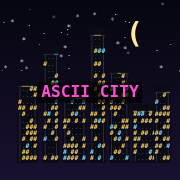
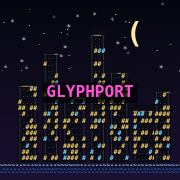
Rename ASCII City to Glyphport
The name you see: the page title and home-screen name, the web app manifest, the
pause menu, the link on the front page, the sleepOS desktop icon, new app icons
(the skyline now stands over the harbour, GLYPHPORT across it), IDEAS.md.

Kept as they were on purpose: ascii-city.html and every other file name, the URL,
the manifest id, the save and settings keys, the audio folder. Changing those
would break links, reinstall the app and lose everyone's save.

Claude-Session: https://claude.ai/code/session_01Gw1JVEBg6Xp9BrCMZ4ZdV2

Changed region(s): [[0.0, 0.8889, 1.0, 0.9722], [0.2222, 0.4722, 0.7778, 0.5556]]

diff --git a/ascii-city.html b/ascii-city.html
@@ -7,14 +7,14 @@
   <meta name="mobile-web-app-capable" content="yes">
   <meta name="apple-mobile-web-app-capable" content="yes">
   <meta name="apple-mobile-web-app-status-bar-style" content="black-translucent">
-  <meta name="apple-mobile-web-app-title" content="ASCII City">
+  <meta name="apple-mobile-web-app-title" content="Glyphport">
   <link rel="apple-touch-icon" sizes="180x180" href="images/ascii-city-180.png">
   <link rel="icon" type="image/png" sizes="32x32"
     href="https://raw.githubusercontent.com/Evelyn225/emergent-toys/main/images/favicon-32x32.png">
   <link rel="icon" type="image/png" sizes="16x16"
     href="https://raw.githubusercontent.com/Evelyn225/emergent-toys/main/images/favicon-16x16.png">
   <link rel="manifest" href="ascii-city.webmanifest">
-  <title>ASCII City</title>
+  <title>Glyphport</title>
   <style>
     * { margin: 0; padding: 0; box-sizing: border-box; }
     body { margin: 0; overflow: hidden; background: #000; }

diff --git a/index.html b/index.html
@@ -286,7 +286,7 @@
       <a href="physarum"            class="link-item">physarum</a><span class="link-sep">/</span>
       <a href="magnetic-pendulum"   class="link-item">magnetic pendulum</a><span class="link-sep">/</span>
       <a href="dla-crystal"         class="link-item">dla crystal</a><span class="link-sep">/</span>
-      <a href="ascii-city"          class="link-item">ascii city</a><span class="link-sep">/</span>
+      <a href="ascii-city"          class="link-item">glyphport</a><span class="link-sep">/</span>
 	  <a href="sleep-os"            class="link-item">sleepOS</a>
     </div>
   </main>

diff --git a/sleep-os.bundle.js b/sleep-os.bundle.js
@@ -2729,7 +2729,7 @@ const PROJECTS = [
   { name: 'magnetic pendulum',  emoji: '🧲', file: 'evenet.fun/magnetic-pendulum.html' },
   { name: 'physarum',           emoji: '🍄', file: 'evenet.fun/physarum.html' },
   { name: 'dla crystal',        emoji: '❄', file: 'evenet.fun/dla-crystal.html' },
-  { name: 'ascii city',         emoji: '🏙', file: 'evenet.fun/ascii-city.html' },
+  { name: 'glyphport',          emoji: '🏙', file: 'evenet.fun/ascii-city.html' },
 ];
 const RECYCLE_BIN_NAME = 'RECYCLE BIN';
 const RECYCLE_STORAGE_DIR = 'CACHE\\RECYCLE_BIN';

diff --git a/os/desktop-model.js b/os/desktop-model.js
@@ -22,7 +22,7 @@ const PROJECTS = [
   { name: 'magnetic pendulum',  emoji: '🧲', file: 'evenet.fun/magnetic-pendulum.html' },
   { name: 'physarum',           emoji: '🍄', file: 'evenet.fun/physarum.html' },
   { name: 'dla crystal',        emoji: '❄', file: 'evenet.fun/dla-crystal.html' },
-  { name: 'ascii city',         emoji: '🏙', file: 'evenet.fun/ascii-city.html' },
+  { name: 'glyphport',          emoji: '🏙', file: 'evenet.fun/ascii-city.html' },
 ];
 const RECYCLE_BIN_NAME = 'RECYCLE BIN';
 const RECYCLE_STORAGE_DIR = 'CACHE\\RECYCLE_BIN';

diff --git a/ascii-city-sw.js b/ascii-city-sw.js
@@ -1,4 +1,4 @@
-// ASCII City's service worker (scoped to /ascii-city*, not the rest of the site): what lets it install as an app and
+// Glyphport's service worker (scoped to /ascii-city*, not the rest of the site): what lets it install as an app and
 // open with no signal. The game itself (page and bundle) is fetched fresh whenever there's a network and the cached
 // copy is only the fallback, so an update is never stuck behind an old version; sounds, fonts and images don't
 // change, so those come from the cache once they're in it.

diff --git a/ascii-city.bundle.js b/ascii-city.bundle.js
@@ -10106,7 +10106,7 @@ function buildPause() {
   const el = menuEl('pause', 500, `
     <div class="panel" role="dialog" aria-label="Paused" style="width: min(520px, calc(100vw - 32px))">
       <h1>Paused</h1>
-      <p class="sub">ASCII City</p>
+      <p class="sub">Glyphport</p>
       <button class="item" data-act="resume">Resume</button>
       <button class="item" data-act="map">Map of the city</button>
       <button class="item" data-act="newgame">Start over</button>

diff --git a/city/pause.js b/city/pause.js
@@ -15,7 +15,7 @@ function buildPause() {
   const el = menuEl('pause', 500, `
     <div class="panel" role="dialog" aria-label="Paused" style="width: min(520px, calc(100vw - 32px))">
       <h1>Paused</h1>
-      <p class="sub">ASCII City</p>
+      <p class="sub">Glyphport</p>
       <button class="item" data-act="resume">Resume</button>
       <button class="item" data-act="map">Map of the city</button>
       <button class="item" data-act="newgame">Start over</button>

diff --git a/city/IDEAS.md b/city/IDEAS.md
@@ -1,4 +1,4 @@
-# ASCII City: ideas for later
+# Glyphport: ideas for later
 
 A wishlist of districts and buildings to look over. Nothing here is promised; pick what sounds fun.
 Things get crossed off (deleted) once they're in the game.
